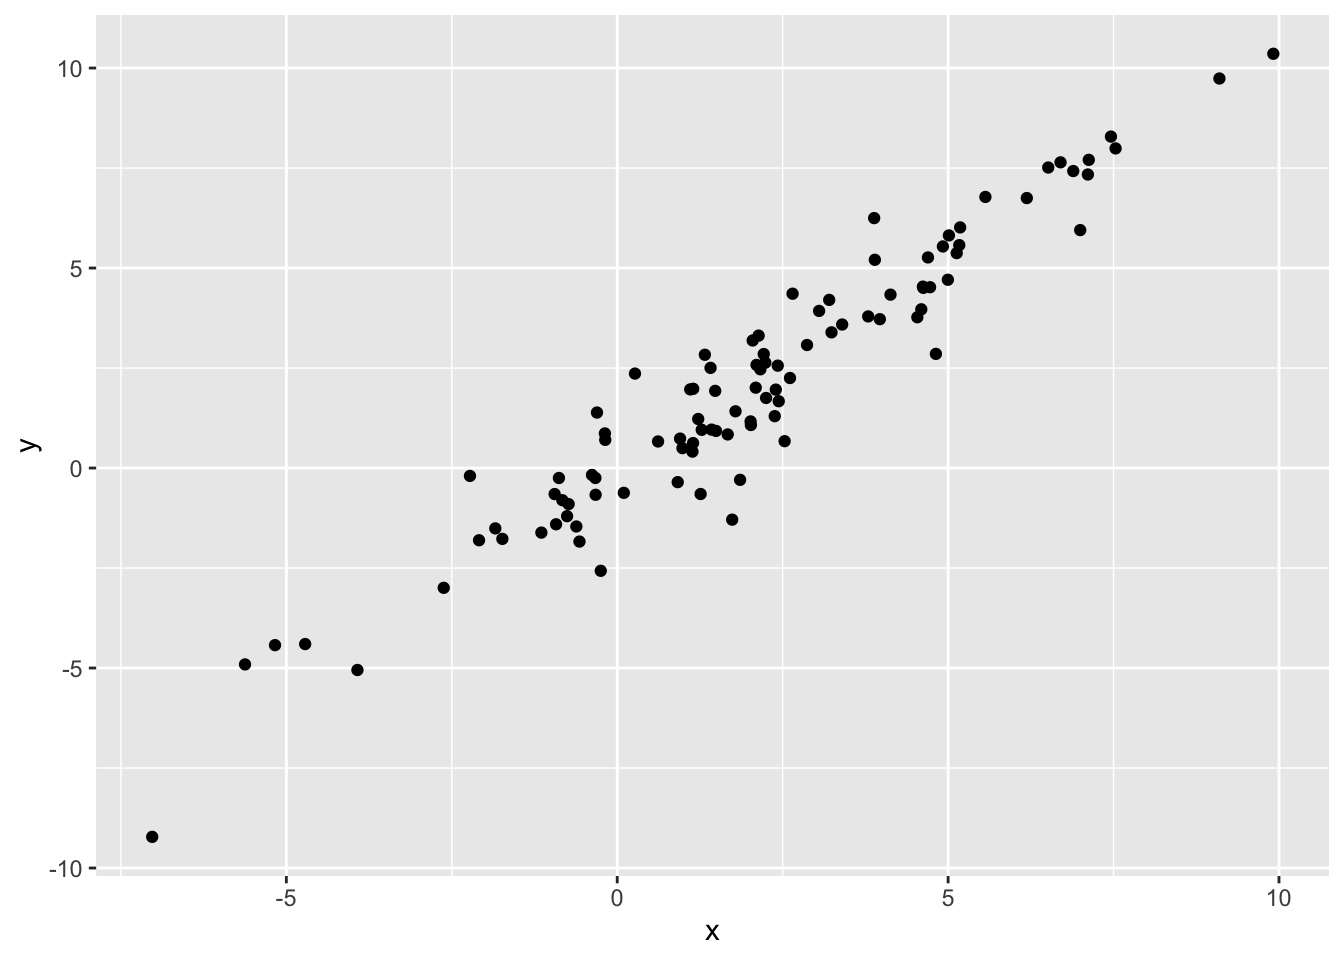
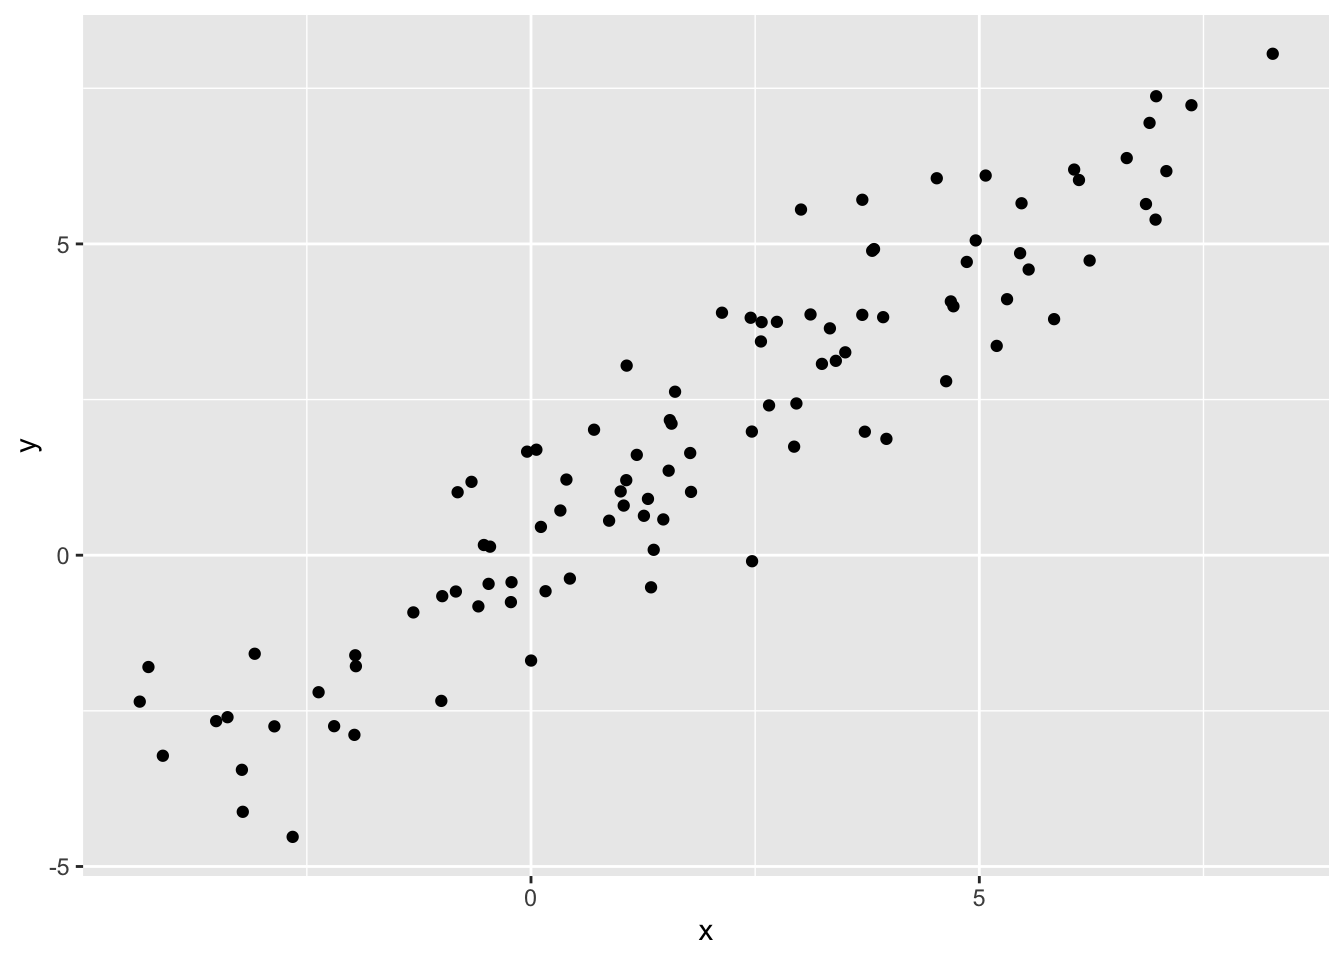
Add more detail and descriptions

diff --git a/about.html b/about.html
@@ -360,14 +360,22 @@ div.tocify {
 
 <div id="about-nina" class="section level1">
 <h1>About Nina</h1>
-<p>I recently graduated from the University of California, Los Angeles
-(UCLA) with a B.S. in Human Biology and Society in March 2025 with Cum
-Laude Honors. I am currently a Columbia Mailman School of Public Health
-Candidate in Epidemiology with a focus on Biostatistics.</p>
-<p>My long-term goal is to bridge the gaps in our healthcare system that
-leave underserved populations behind—through data-driven research,
-public health policy, and compassionate, community-centered care.</p>
+<p>I graduated from the University of California, Los Angeles (UCLA)
+with a B.S. in Human Biology and Society in March 2025 with Cum Laude
+Honors. I am currently a Columbia Mailman School of Public Health
+Candidate in Epidemiology with a certificate in Applied Data Science and
+Biostatistics.</p>
+<p>Here at Mailman, I work as a Research Assistant to improve cervical
+cancer screening. I am also Vice President of the Mailman Journalism
+Club where I run the podcast “Kind of a Big Health Deal” to bring
+conversations of health outside academia by interviewing a variety of
+Public Health Leaders. I volunteer in the community with Coach Dave,
+remotely as a Helpline Volunteer with AZLA, and previously with Read
+Ahead.</p>
 <p>You can <a href="resume.pdf">download my resume here</a>.</p>
+<p>You can access <a
+href="https://open.spotify.com/show/2V0e35ZtOBREP68FFSidKo">Kind of a
+Big Health Deal</a></p>
 </div>
 
 

diff --git a/index.html b/index.html
@@ -358,14 +358,17 @@ div.tocify {
 </div>
 
 
-<div id="nina-knitowski" class="section level1">
-<h1>Nina Knitowski</h1>
-<p>You can write content. This can be whatever you want to say to the
-world!!</p>
-<p>I learned all my data science from <a
-href="https://p8105.com">P8105</a></p>
-<p>To learn about this page, go <a href="about.html">here</a></p>
-<p>#because I have an About Page in HTML</p>
+<div id="brief-introdcution" class="section level1">
+<h1>Brief Introdcution</h1>
+<p>Hi everyone! I am a second year MPH candidate at Columbia Mailman’s
+School of Public Health. With a background as an Emergency Medical
+Technician in Southern Deleware, I am interested in improving health
+equity in rural areas and focused on community-centered solutions. At
+mailman, I am gaining skills in data analysis in hopes of being able to
+recognize gaps in inequity and addressing them.</p>
+<p>To learn about this Nina Knitowski, go <a
+href="about.html">here</a></p>
+<p>#Check out my About Page to Learn More About my Background</p>
 <p>To go home, click <a href="index.html">here</a></p>
 </div>
 <div id="headshot" class="section level1">

diff --git a/plots.html b/plots.html
@@ -330,13 +330,13 @@ div.tocify {
   <a href="plots.html">Plots</a>
 </li>
 <li>
-  <a href="mailto:&lt;nina.knitowski@gmail.com&gt;">
+  <a href="mailto:nina.knitowski@gmail.com">
     <span class="fa fa-envelope fa-lg"></span>
      
   </a>
 </li>
 <li>
-  <a href="http://github.com/&lt;YOUR_GH_NAME&gt;/">
+  <a href="http://github.com/ninaknits/">
     <span class="fa fa-github fa-lg"></span>
      
   </a>
